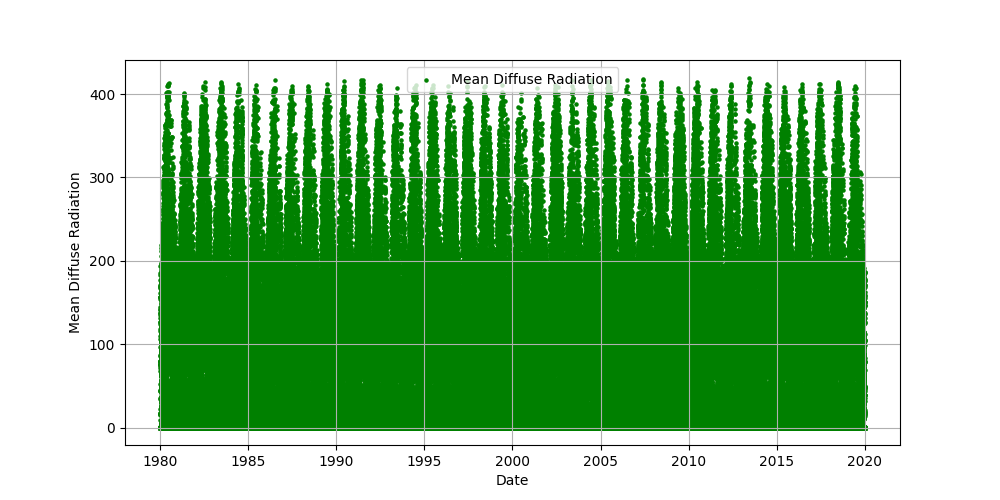
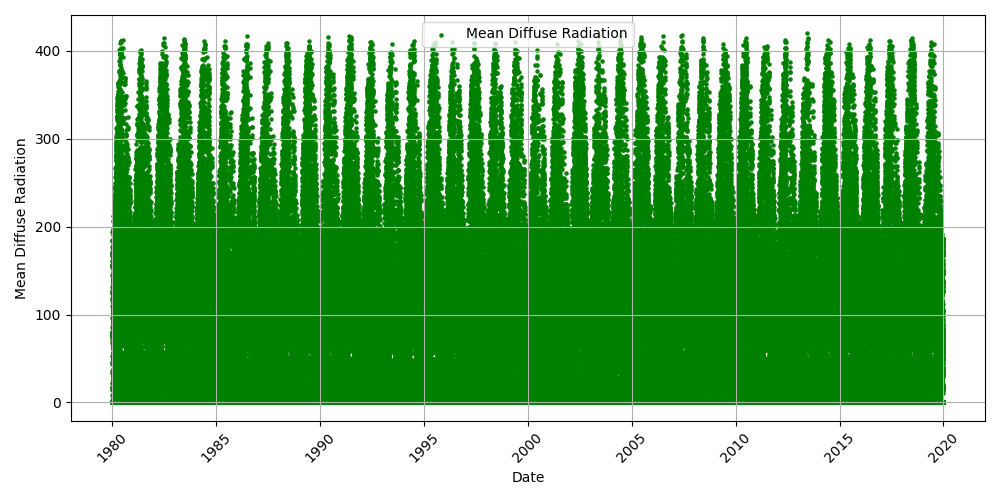
final

diff --git a/test.py b/test.py
@@ -49,12 +49,12 @@ plt.scatter(predictions_pd["timestamp"], predictions_pd["mean_temp"], label="Rea
 plt.scatter(predictions_pd["timestamp"], predictions_pd["prediction"], label="Predicted Mean Temperature", color='r', s=5)
 plt.xlabel("Date")
 plt.ylabel("Mean Temperature (°C)")
-plt.title("Temperature Trend: Real vs Predicted")
+plt.title("Temperature: Real vs Predicted")
 plt.legend()
 plt.grid(True)
 plt.xticks(rotation=45)
 plt.tight_layout()
-plt.savefig("temperature_trend_plot.png")
+plt.savefig("temperature_plot.png")
 plt.show()
 
 plt.figure(figsize=(10, 5))
@@ -65,7 +65,7 @@ plt.legend()
 plt.grid(True)
 plt.xticks(rotation=45)
 plt.tight_layout()
-plt.savefig("radiation_direct_trend_plot.png")
+plt.savefig("radiation_direct_plot.png")
 
 plt.figure(figsize=(10, 5))
 plt.scatter(df_pandas["timestamp"], df_pandas["mean_radiation_diffuse"], label="Mean Diffuse Radiation", color='g', s=5)
@@ -75,17 +75,17 @@ plt.legend()
 plt.grid(True)
 plt.xticks(rotation=45)
 plt.tight_layout()
-plt.savefig("radiation_diffuse_trend_plot.png")
+plt.savefig("radiation_diffuse_plot.png")
 
 with open("README.md", "w") as f:
     f.write("# Weather Prediction Report\n\n")
     f.write("## Summary\n")
-    f.write("This project uses PySpark to analyze and predict temperature trends based on weather data.\n\n")
+    f.write("This project uses PySpark to analyze and predict temperatures based on weather data.\n\n")
     f.write("## Results\n")
-    f.write("### Temperature Trend\n")
-    f.write("![Temperature Trend](temperature_trend_plot.png)\n\n")
-    f.write("### Mean Direct Radiation Trend\n")
-    f.write("![Direct Radiation Trend](radiation_direct_trend_plot.png)\n\n")
-    f.write("### Mean Diffuse Radiation Trend\n")
-    f.write("![Diffuse Radiation Trend](radiation_diffuse_trend_plot.png)\n\n")
+    f.write("### Temperature\n")
+    f.write("![Temperature](temperature_plot.png)\n\n")
+    f.write("### Mean Direct Radiation\n")
+    f.write("![Direct Radiation](radiation_direct_plot.png)\n\n")
+    f.write("### Mean Diffuse Radiation\n")
+    f.write("![Diffuse Radiation](radiation_diffuse_plot.png)\n\n")
     f.write("### Model Performance\n")

diff --git a/README.md b/README.md
@@ -1,16 +1,16 @@
 # Weather Prediction Report
 
 ## Summary
-This project uses PySpark to analyze and predict temperature trends based on weather data.
+This project uses PySpark to analyze and predict temperatures based on weather data.
 
 ## Results
-### Temperature Trend
-![Temperature Trend](temperature_trend_plot.png)
+### Temperature
+![Temperature](temperature_plot.png)
 
-### Mean Direct Radiation Trend
-![Direct Radiation Trend](radiation_direct_trend_plot.png)
+### Mean Direct Radiation
+![Direct Radiation](radiation_direct_plot.png)
 
-### Mean Diffuse Radiation Trend
-![Diffuse Radiation Trend](radiation_diffuse_trend_plot.png)
+### Mean Diffuse Radiation
+![Diffuse Radiation](radiation_diffuse_plot.png)
 
 ### Model Performance
